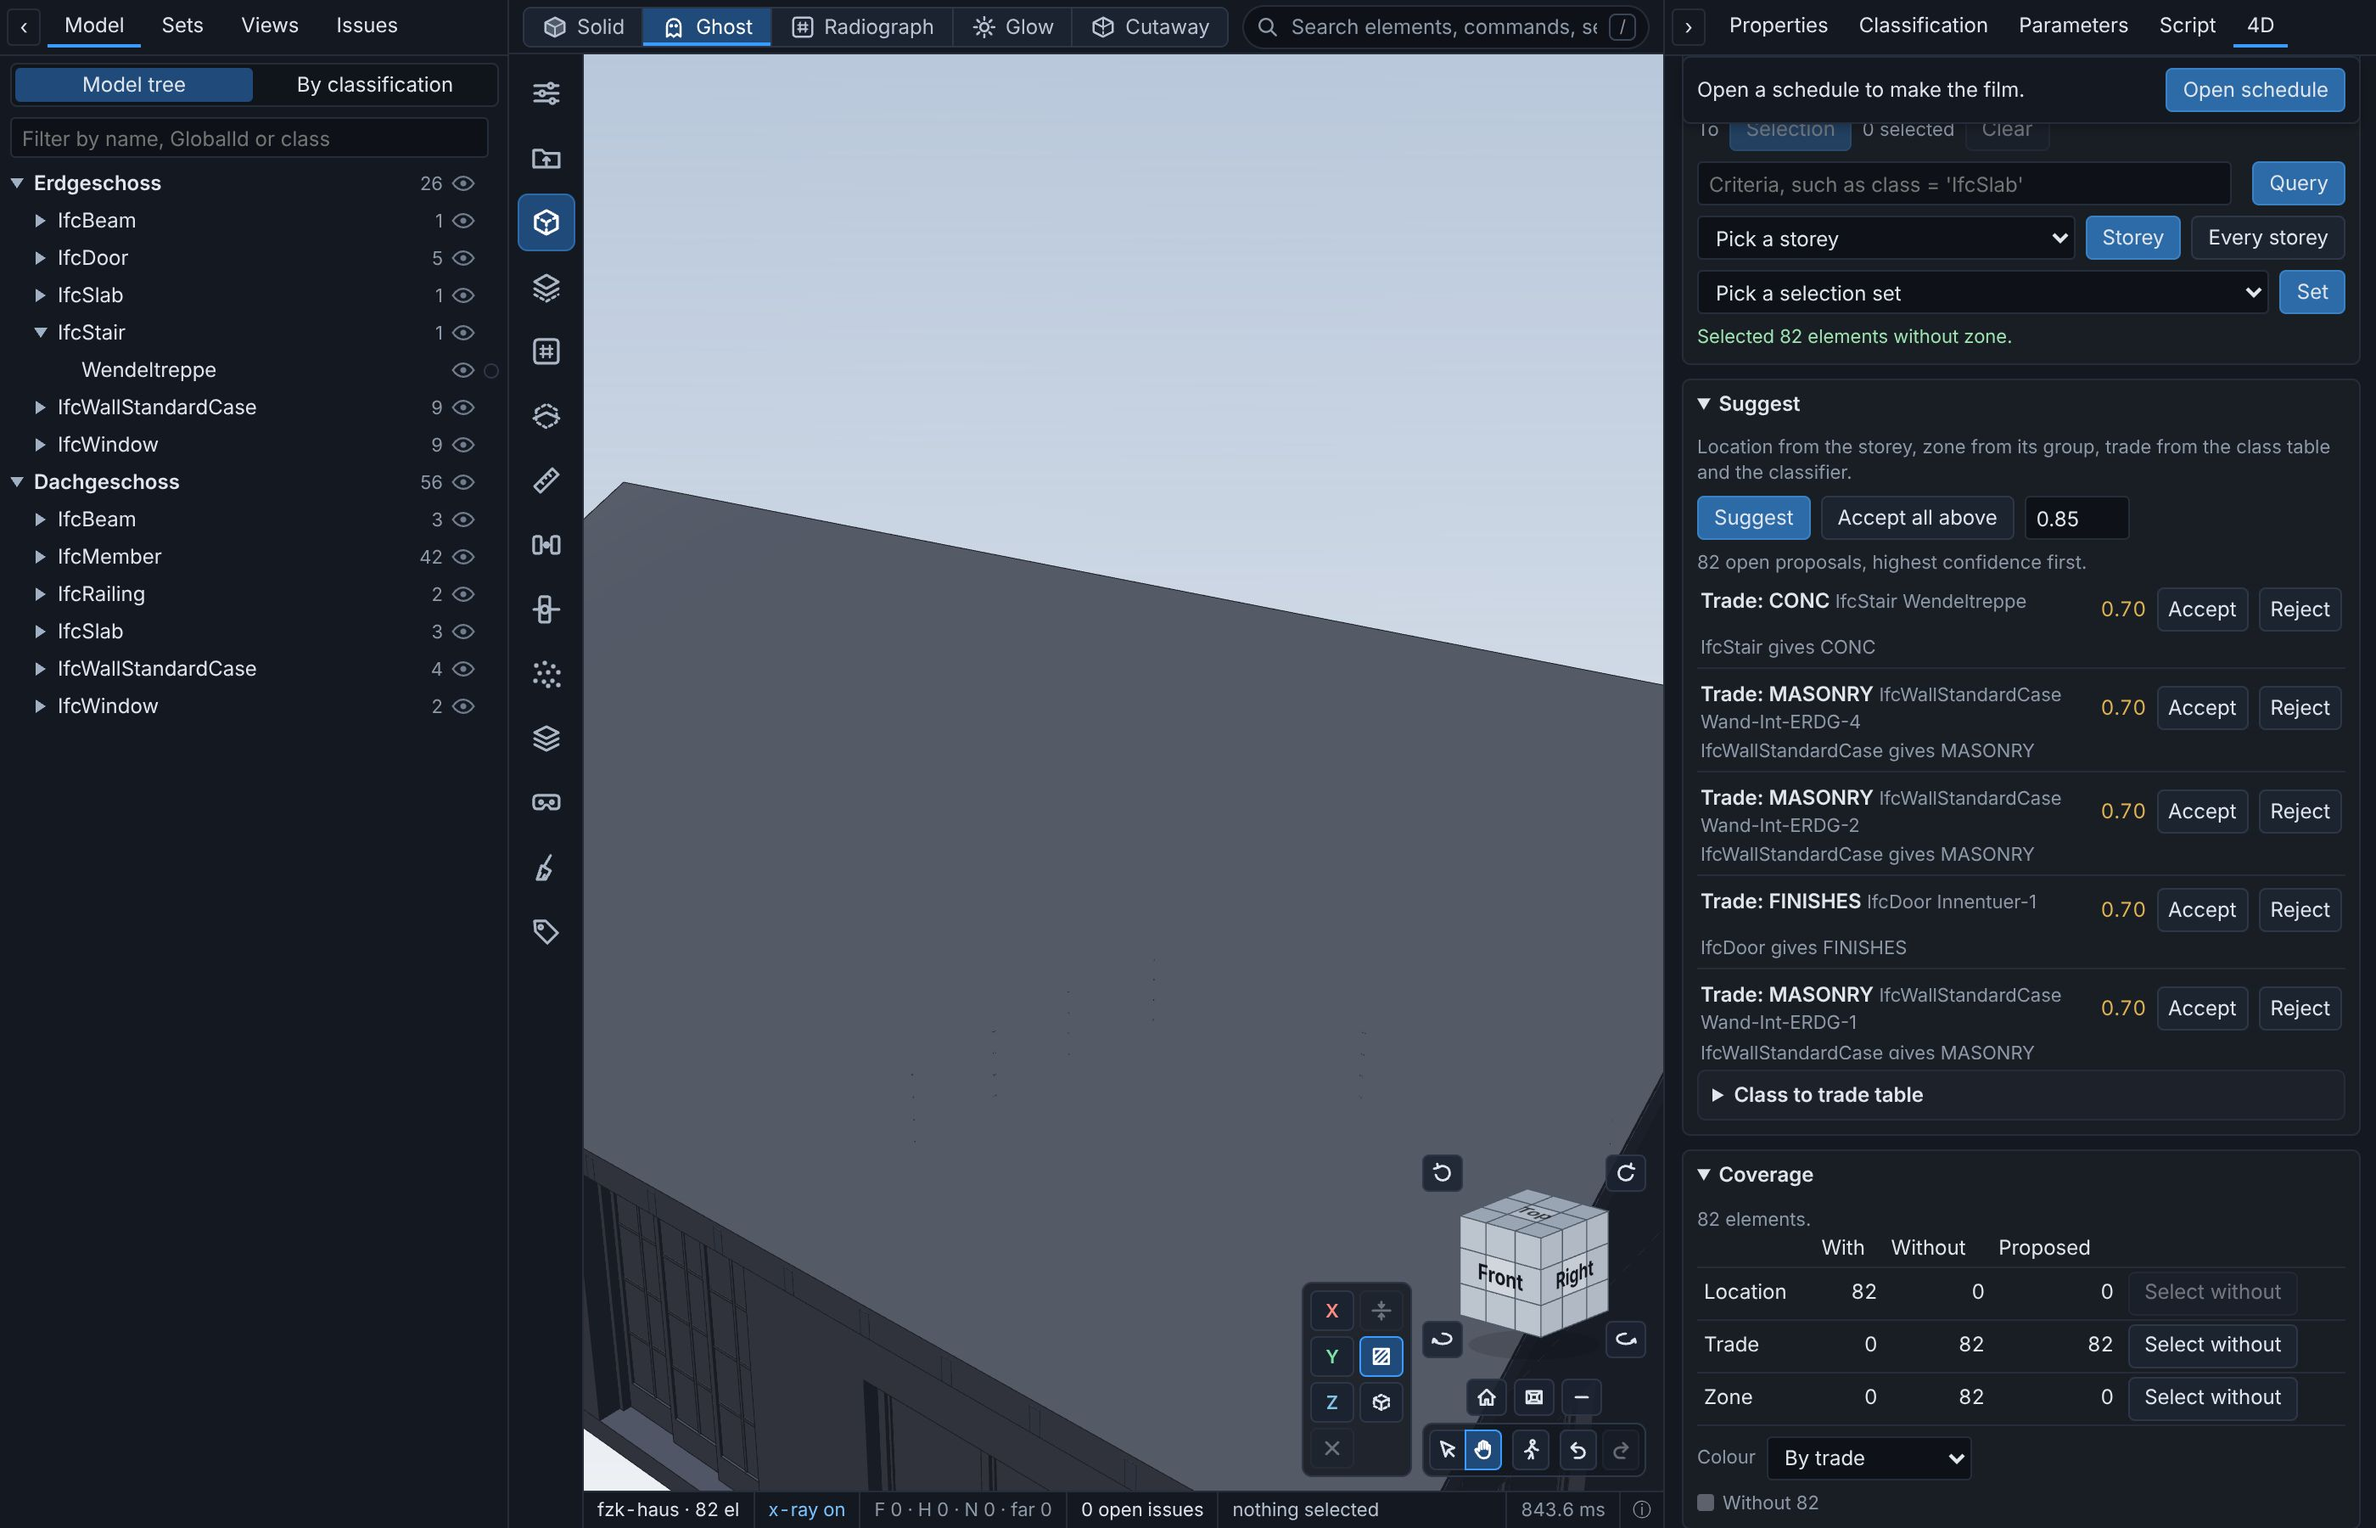
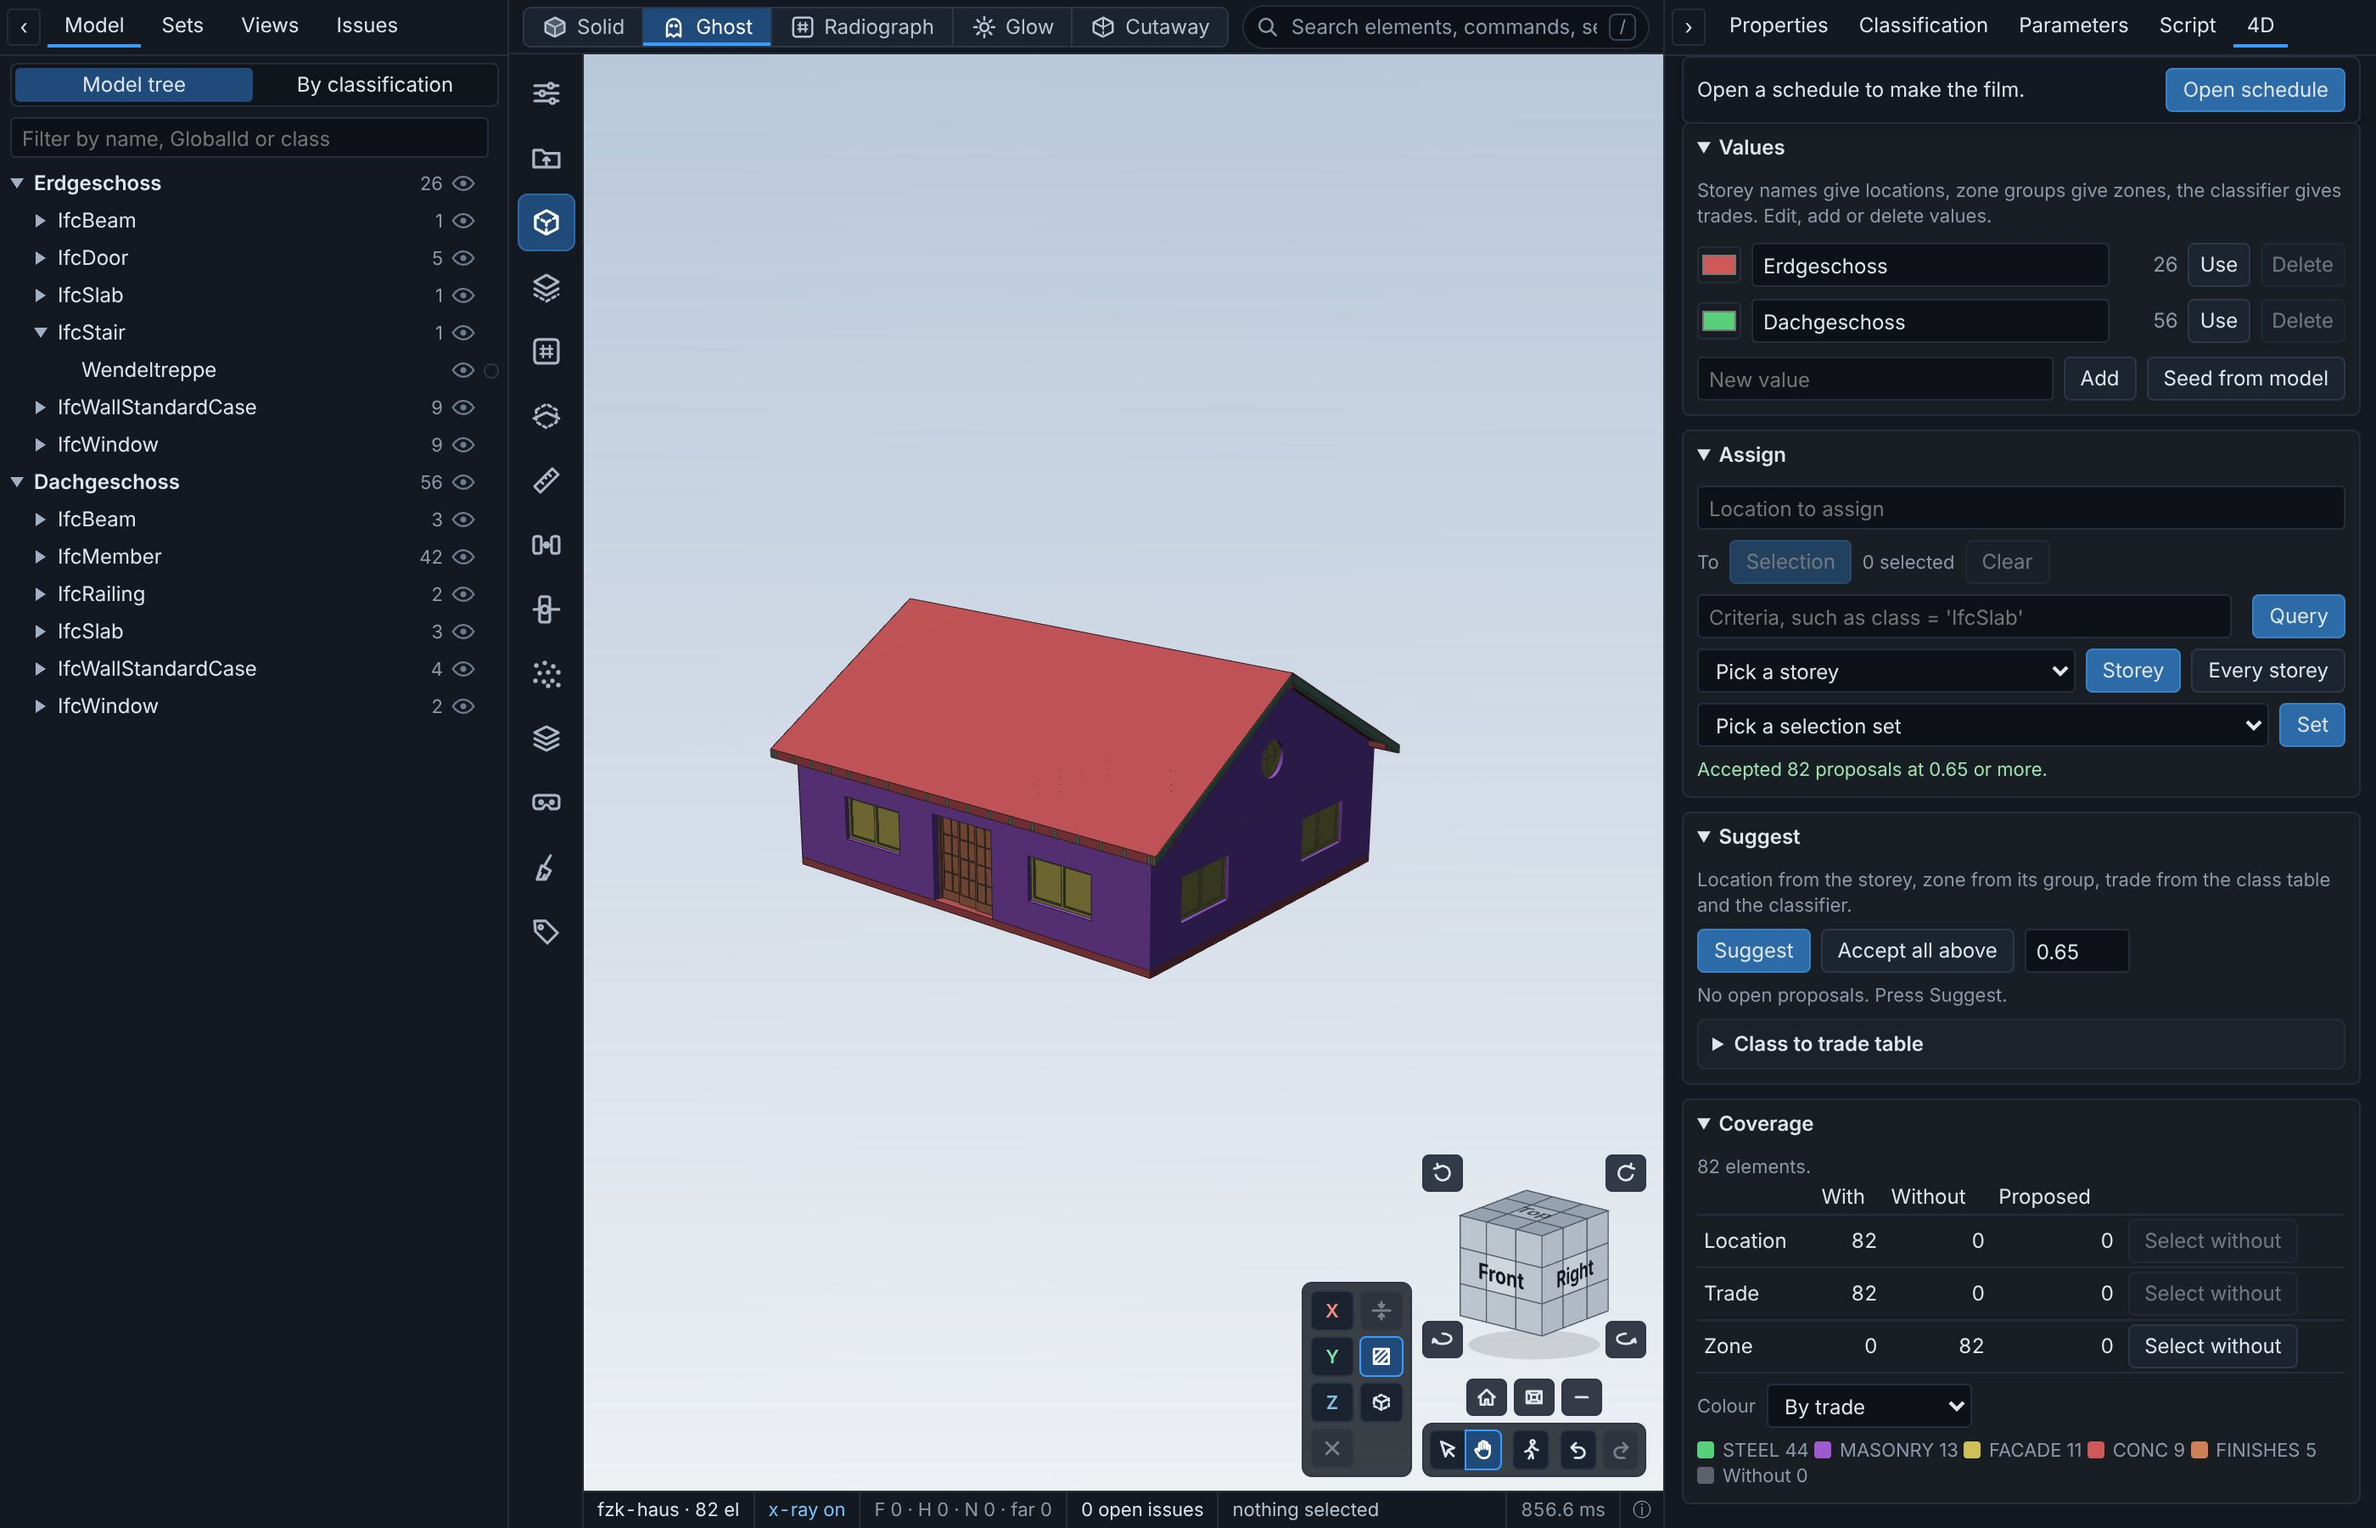
WIP tours 19-35: more fixes from the runs; manual fixes (23 messages, 27A caption)
Claude-Session: https://claude.ai/code/session_01Tq8KrjEb682fwDG9hgfxsD

Changed region(s): [[0.2486, 0.0622, 0.9943, 0.9956], [0.9011, 0.6533, 0.9943, 0.6844], [0.8389, 0.7778, 0.87, 0.84]]

diff --git a/docs/manual/23-scripts.md b/docs/manual/23-scripts.md
@@ -151,15 +151,15 @@ The messages you will meet:
 
 | Message | What to do |
 | --- | --- |
-| `I do not know the statement "flyto"` | Write the statement with a space: `fly to ...` |
-| `A value with a space needs double quotes` | `storey = "Level 2"`, not `storey = Level 2` |
-| `The "together" on line 2 has no "end together"` | Add `end together` after the last line of the block |
-| `"end repeat" has no block to close` | One `end` too many, or a `repeat` is missing above |
-| `I do not know the name "pause"` | Give the number a name first: `put 1.5 into pause` |
-| `"it" has no meaning here` | `it` works only inside `repeat for each` |
+| ``I do not know the statement `flyto`.`` | Write the statement with a space: `fly to ...` |
+| `In the criteria: Unexpected "2": expected AND, OR or the end of the query.` | Put a value with a space in double quotes: `storey = "Level 2"`, not `storey = Level 2` |
+| ``The `together` on line 2 has no `end together`.`` | Add `end together` after the last line of the block |
+| `` `end repeat` has no block to close. `` | One `end` too many, or a `repeat` is missing above |
+| ``I do not know the name `pause`.`` | Give the number a name first: `put 1.5 into pause` |
+| `` `it` has no meaning here. `` | `it` works only inside `repeat for each` |
 | `There is no selection set named "Pmps"` | The message suggests the nearest names |
-| `I do not know the setting "..."; the player skips it` | A warning. Fix the name or leave the line |
-| `The margin 7 is outside 1 to 6` | A margin is between 1 and 6 |
+| ``I do not know the setting `...`; the player skips it if it does not either.`` | A warning. Fix the name or leave the line |
+| `The margin 7 is outside 1 to 6.` | A margin is between 1 and 6 |
 | `The script makes more than 5000 steps.` | Use fewer or smaller loops, or split the script |
 
 ### Choices and settings

diff --git a/docs/manual/27a-4d-extras.md b/docs/manual/27a-4d-extras.md
@@ -63,7 +63,7 @@ its date, week number and the work going on, and the colour legend is repeated o
    about 20 weekly frames on 4 A4 landscape pages, 3 across.
 
 
-> Picture (storyboard-page): one A4 page of the FZK-Haus storyboard with three frames, their captions and the legend at the foot.
+> Picture (storyboard-page): one A4 page of the FZK-Haus storyboard with six frames (two rows of three), their captions and the legend at the foot.
 
 ### How it works
 
